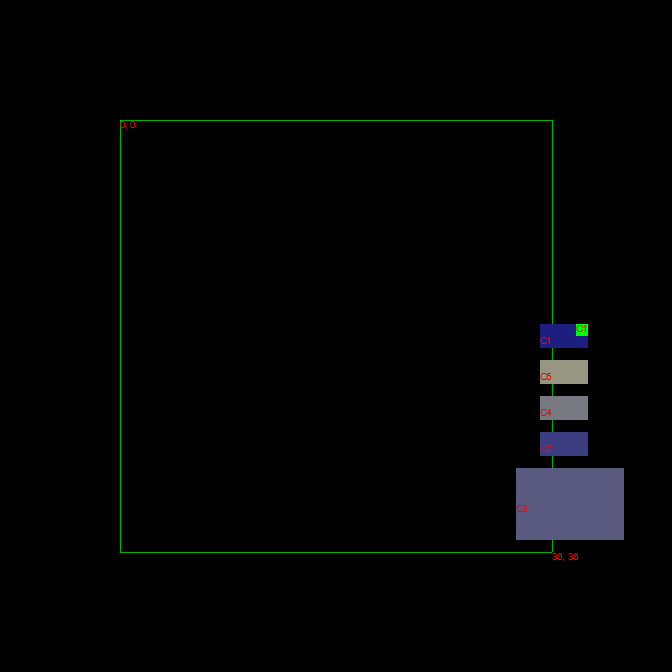
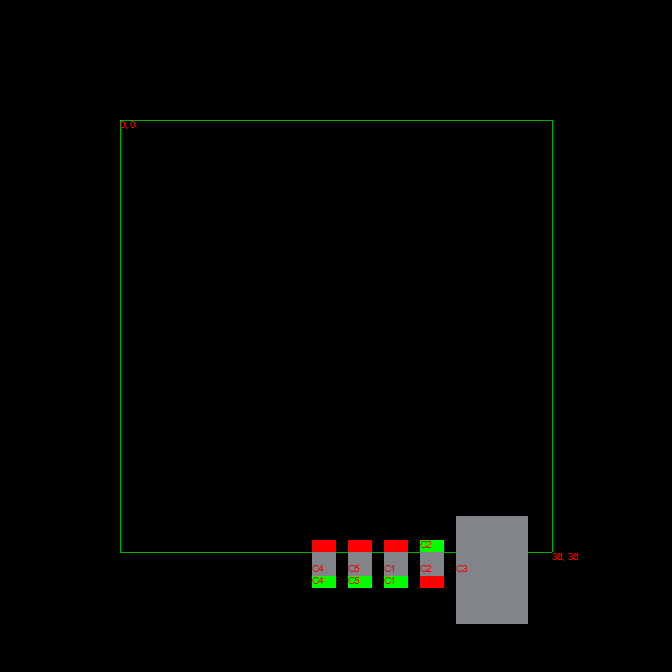
add net coloring and refdes rename

Changed region(s): [[0.4375, 0.4688, 0.9375, 0.9375]]

diff --git a/pcb-layout/src/main.rs b/pcb-layout/src/main.rs
@@ -54,7 +54,7 @@ impl Individual {
             let br = ((i.bbox.x2+ padding)*scale, (i.bbox.y1+ padding)*scale);
             let style = TextStyle::from(("sans-serif", scale).into_font()).color(&RED);
             let text_loc = ((i.bbox.x1 + padding )*scale  , (i.bbox.centery + padding) * scale );
-            backend.draw_rect(ul,br , &RGBColor(rgb,rgb,128), true);
+            backend.draw_rect(ul,br , &RGBColor(129,133,137), true);
             backend.draw_text(&i.refdes,&style, text_loc );
             for p in &i.pins{
                 
@@ -62,7 +62,14 @@ impl Individual {
                 let br = ((p.bbox.x2+ padding)*scale, (p.bbox.y1+ padding)*scale);
                 let style = TextStyle::from(("sans-serif", scale).into_font()).color(&RED);
                 let text_loc = ((p.bbox.x1 + padding )*scale  , (p.bbox.centery + padding) * scale );
-                backend.draw_rect(ul,br , &RGBColor(0,255,1), true);
+                if p.net == 0{
+
+                    backend.draw_rect(ul,br , &RGBColor(0,255,1), true);
+                }
+                else{
+                    backend.draw_rect(ul,br , &RGBColor(255,1,1), true);
+
+                }
                 backend.draw_text(&p.refdes,&style, text_loc );
             }
         } 
@@ -236,21 +243,29 @@ impl Individual {
 
 fn main() -> Result<(), Box<dyn std::error::Error>>{
     let placement_area = Bbox::new(0, 36, 0, 36);
-    let pin_boxx = Bbox::new(0, 1, 0,1);
+    let pin_boxx = Bbox::new(0, 2, 0,1);
     let base_pin = Pin{refdes :"C1".to_string(), net: 0, bbox:pin_boxx };
+    let mut base_pin_2 = Pin{refdes :"C1".to_string(), net: 1, bbox:pin_boxx };
+    base_pin_2.move_pin(0, 3);
     let boxx = Bbox::new(0, 2, 0, 4);
     let mut c1 = Component {
         refdes: "C1".to_string(),
         bbox: boxx,
         rotation: 0,
-        pins : vec![base_pin]
+        pins : vec![base_pin.clone(), base_pin_2.clone()]
     };
-    let box2 = Bbox::new(32, 36, 34, 36);
+    let mut b_pin = base_pin.clone();
+    let mut b_pin2 = base_pin_2.clone();
+    b_pin.refdes = "C2".to_string();
+    b_pin2.refdes = "C2".to_string();
+    b_pin.move_pin(34, 32);
+    b_pin2.move_pin(34, 32);
+    let box2 = Bbox::new(34, 36, 32, 36);
     let mut c2 = Component {
         refdes: "C2".to_string(),
         bbox: box2,
         rotation: 0,
-        pins : Vec::new()
+        pins : vec![b_pin, b_pin2]
     };
     let box3 = Bbox::new(4, 13, 0, 6);
     let mut c3 = Component {
@@ -260,9 +275,9 @@ fn main() -> Result<(), Box<dyn std::error::Error>>{
         pins : Vec::new()
     };
     let mut c4 = c2.clone();
-    c4.refdes = "C4".to_string();
+    c4.set_refdes("C4".to_string());
     let mut c5 = c2.clone();
-    c5.refdes = "C5".to_string();
+    c5.set_refdes("C5".to_string());
     c1.move_comp(6, 6);
     //c2.move_comp(6, 6);
     c4.move_comp(0, -6);

diff --git a/pcb-layout/src/plcmnt.rs b/pcb-layout/src/plcmnt.rs
@@ -235,6 +235,13 @@ impl Component {
 
 
     }
+    pub fn set_refdes(& mut self, new_ref: String){
+        self.refdes = new_ref.clone();
+        for pin in &mut self.pins{
+            pin.refdes = new_ref.clone();
+        }
+
+    }
     pub fn is_negative( &self) -> bool{
         self.bbox.x1 < 0 || self.bbox.y1 < 0
     }
